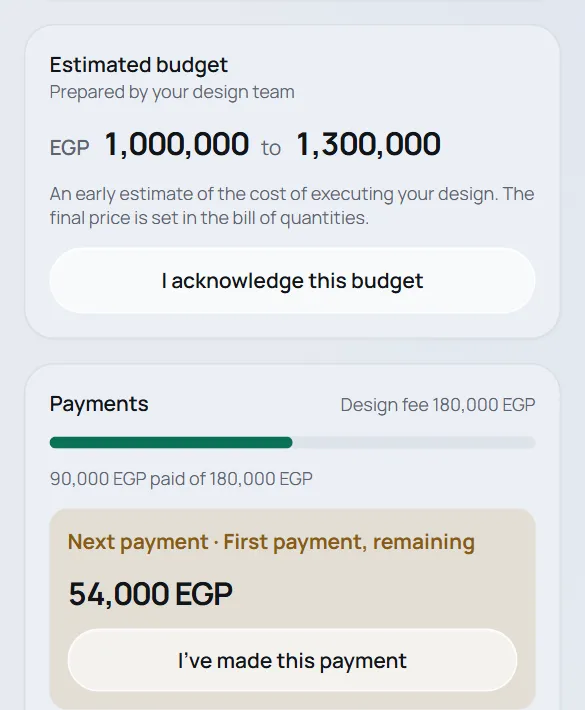
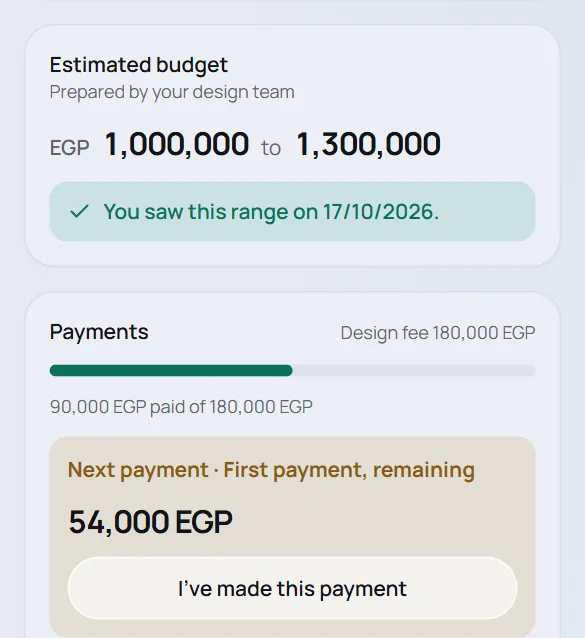
fix(builder, portal): unit names, untruncated figures, studio-recorded budget ack
- Proposal builder (and the sent-proposal view): a unit shows by its name in
  the page's language (priceBook.units, "م²" / "m²"); the code stays the
  option value. A code with no name yet shows as the code. UNITS is untouched.
- Builder number boxes show a figure without trailing zeros while not being
  edited (13200.0000 reads 13200, 0.0000 reads 0). Display only: the line keeps
  the figure as loaded or typed, focusing rewrites nothing, and nothing is
  trimmed mid-typing. Figure columns widened for 7-digit amounts.
- Client page: a budget acknowledgement the studio recorded for the client
  (the one Gate B already accepts) now counts on /d: no second "I acknowledge
  this budget" ask, and the card shows the acknowledged state. Retracting it, or
  re-issuing the band, asks again. Needs `npm run apply-rls` on deploy
  (functions/40-delivery-read.sql).
- Landing: cost and bilingual screens re-captured.

Changed region(s): [[0.0615, 0.0596, 0.9231, 0.4467], [0.0615, 0.5063, 0.9231, 0.953], [0.5846, 0.5063, 0.9231, 0.5956]]

diff --git a/apps/web/tests/actions/delivery-rom-studio-ack.dbtest.ts b/apps/web/tests/actions/delivery-rom-studio-ack.dbtest.ts
@@ -1,0 +1,73 @@
+import { afterAll, describe, expect, it } from 'vitest';
+import { recordEventCorrectionCore } from '@/lib/engagements/corrections';
+import { setEngagementRomCore } from '@/lib/engagements/rom';
+import { recordRomAcknowledgementCore } from '@/lib/engagements/rom-acknowledgement';
+import { issueRomCore } from '@/lib/engagements/rom-issue';
+import { deliveryOrNull } from './delivery-read';
+import { closeFixture, teardown } from './fixture';
+import { seedRoundBDelivery, type RoundBDelivery } from './round-b-fixture';
+
+// The budget acknowledgement the STUDIO records for the client (a call, a
+// WhatsApp) is consent on file: Gate B accepts it, so the client page must not
+// ask the client to acknowledge the same band again. Retracting it asks again.
+
+const orgIds: string[] = [];
+afterAll(async () => {
+  await teardown(orgIds);
+  await closeFixture();
+});
+
+async function issuedBand(suffix: string): Promise<RoundBDelivery> {
+  const delivery = await seedRoundBDelivery(orgIds, suffix);
+  const { ctx, engagementId } = delivery;
+  expect((await setEngagementRomCore(ctx, { engagementId, romLow: '1000000', romHigh: '1300000' })).ok).toBe(true);
+  expect((await issueRomCore(ctx, { engagementId })).ok).toBe(true);
+  return delivery;
+}
+
+describe('a budget acknowledgement the studio recorded for the client', () => {
+  it('is the acknowledgement on the client page: no button, the day on file', async () => {
+    const delivery = await issuedBand('rom-studio-ack');
+    expect((await deliveryOrNull(delivery.token))!.clientActions).toContain('acknowledge_rom');
+
+    const recorded = await recordRomAcknowledgementCore(delivery.ctx, {
+      engagementId: delivery.engagementId,
+      evidence: 'WhatsApp',
+    });
+    expect(recorded.ok).toBe(true);
+
+    const page = (await deliveryOrNull(delivery.token))!;
+    expect(page.clientActions).not.toContain('acknowledge_rom');
+    expect(page.romAcknowledgedAt).toEqual(expect.any(String));
+  });
+
+  it('asks the client again once the studio retracts it', async () => {
+    const delivery = await issuedBand('rom-studio-retract');
+    const recorded = await recordRomAcknowledgementCore(delivery.ctx, {
+      engagementId: delivery.engagementId,
+      evidence: 'Phone call',
+    });
+    const retracted = await recordEventCorrectionCore(delivery.ctx, {
+      engagementId: delivery.engagementId,
+      eventId: (recorded as { data?: string }).data!,
+      reason: 'Recorded on the wrong delivery',
+    });
+    expect(retracted.ok).toBe(true);
+
+    const page = (await deliveryOrNull(delivery.token))!;
+    expect(page.clientActions).toContain('acknowledge_rom');
+    expect(page.romAcknowledgedAt).toBeNull();
+  });
+
+  it('answers only the band it acknowledged: a re-issued band is asked again', async () => {
+    const delivery = await issuedBand('rom-studio-reissue');
+    const { ctx, engagementId } = delivery;
+    await recordRomAcknowledgementCore(ctx, { engagementId, evidence: 'WhatsApp' });
+    await setEngagementRomCore(ctx, { engagementId, romLow: '1100000', romHigh: '1400000' });
+    await issueRomCore(ctx, { engagementId });
+
+    const page = (await deliveryOrNull(delivery.token))!;
+    expect(page.clientActions).toContain('acknowledge_rom');
+    expect(page.romAcknowledgedAt).toBeNull();
+  });
+});

diff --git a/apps/web/src/app/[locale]/(app)/proposals/[id]/builder-line-row.test.tsx b/apps/web/src/app/[locale]/(app)/proposals/[id]/builder-line-row.test.tsx
@@ -1,0 +1,80 @@
+// A builder line as the studio sees it: the unit by its name in the page's
+// language (the code stays the value), and stored scale-4 figures without the
+// trailing zeros that narrow boxes used to cut off.
+import { fireEvent } from '@testing-library/react';
+import { describe, expect, it, vi } from 'vitest';
+import { messageAt, renderWithIntl, type TestLocale } from '@/test/render-with-intl';
+import type { LineState } from './builder-model';
+import { BuilderLineRow } from './builder-line-row';
+import { useUnitLabel } from './use-unit-label';
+import type { DraftCellError } from './use-draft-field-errors';
+
+const STORED_LINE: LineState = {
+  key: 'line-1',
+  id: 'l-1',
+  costItemId: null,
+  descriptionEn: 'Wardrobes',
+  descriptionAr: '',
+  qty: '18.0000',
+  unit: 'linear_meter',
+  unitCost: '9500.0000',
+  unitPrice: '13200.5000',
+  discountPct: '0.0000',
+};
+
+const NO_REFUSAL: DraftCellError = { message: undefined, clear: () => undefined };
+
+function renderLine(locale: TestLocale, line: LineState = STORED_LINE) {
+  const patchLine = vi.fn();
+  renderWithIntl(
+    <table>
+      <tbody>
+        <BuilderLineRow
+          line={line}
+          sectionIndex={0}
+          lineIndex={0}
+          seeMargin
+          patchLine={patchLine}
+          removeLine={vi.fn()}
+          cellOf={() => NO_REFUSAL}
+        />
+      </tbody>
+    </table>,
+    { locale },
+  );
+  const box = (cell: string) => document.querySelector<HTMLInputElement>(`[data-draft-input="${cell}"]`)!;
+  return { patchLine, box };
+}
+
+describe.each<TestLocale>(['ar-EG', 'en'])('a builder line (%s)', (locale) => {
+  it('names the unit in the page language, never by its code', () => {
+    renderLine(locale);
+    const unit = document.getElementById('line-line-1-unit')!;
+    expect(unit.textContent).toBe(messageAt(locale, 'priceBook.units.linear_meter'));
+    expect(unit.textContent).not.toContain('linear_meter');
+  });
+
+  it('shows stored figures without trailing zeros, and leaves the line as stored', () => {
+    const { box, patchLine } = renderLine(locale);
+    expect(box('qty').value).toBe('18');
+    expect(box('unitCost').value).toBe('9500');
+    expect(box('unitPrice').value).toBe('13200.5');
+    expect(box('discountPct').value).toBe('0');
+
+    fireEvent.focus(box('unitPrice'));
+    fireEvent.blur(box('unitPrice'));
+    expect(box('unitPrice').value).toBe('13200.5');
+    expect(patchLine).not.toHaveBeenCalled();
+  });
+});
+
+function UnitName({ unit }: { unit: string }) {
+  return <span data-testid="unit">{useUnitLabel()(unit)}</span>;
+}
+
+describe('a unit with no name yet in the catalogue', () => {
+  it('shows its code rather than breaking the page', () => {
+    renderWithIntl(<UnitName unit="kg" />, { locale: 'ar-EG' });
+    expect(document.querySelector('[data-testid="unit"]')!.textContent).toBe('kg');
+  });
+});

diff --git a/apps/web/src/app/[locale]/(app)/proposals/[id]/figure-input.tsx b/apps/web/src/app/[locale]/(app)/proposals/[id]/figure-input.tsx
@@ -1,8 +1,9 @@
 'use client';
 
-import type { ComponentProps } from 'react';
+import { useState, type ComponentProps } from 'react';
 import { Input } from '@/components/ui/input';
 import { figureOf } from './builder-model';
+import { compactFigure } from './figure-display';
 
 /**
  * A builder number box. It takes what the studio types (Arabic-Indic digits,
@@ -10,23 +11,42 @@ import { figureOf } from './builder-model';
  * be saved, in Latin digits (`figureOf`), so the box never shows a number
  * different from the one the preview and the save use. Anything it cannot read
  * ("1,5", letters) is left as typed for the save to point at.
+ *
+ * A figure it is not editing shows without trailing zeros ("13200.0000" reads
+ * "13200", ./figure-display.ts). Focusing the box keeps that text, and only what
+ * the studio then types reaches the line: the stored figure is never rewritten
+ * by looking at it, and nothing typed is trimmed while it is being typed.
  */
 export function FigureInput({
   value,
   onValueChange,
+  onFocus,
   ...props
 }: Omit<ComponentProps<typeof Input>, 'value' | 'onChange' | 'onBlur'> & {
   value: string;
   onValueChange: (value: string) => void;
 }) {
+  // What the box shows while focused, and the line figure it was shown for: a
+  // figure that changed from elsewhere meanwhile (a price-book pick) wins.
+  const [editing, setEditing] = useState<{ text: string; forValue: string } | null>(null);
+  const shown = editing && editing.forValue === value ? editing.text : compactFigure(value);
+
   return (
     <Input
       {...props}
       dir="ltr"
       inputMode="decimal"
-      value={value}
-      onChange={(event) => onValueChange(event.target.value)}
+      value={shown}
+      onFocus={(event) => {
+        setEditing({ text: compactFigure(value), forValue: value });
+        onFocus?.(event);
+      }}
+      onChange={(event) => {
+        setEditing({ text: event.target.value, forValue: event.target.value });
+        onValueChange(event.target.value);
+      }}
       onBlur={() => {
+        setEditing(null);
         const figure = figureOf(value);
         if (figure !== value) onValueChange(figure);
       }}

diff --git a/apps/web/src/app/[locale]/(app)/proposals/[id]/figure-input.test.tsx b/apps/web/src/app/[locale]/(app)/proposals/[id]/figure-input.test.tsx
@@ -32,3 +32,50 @@ describe('FigureInput: on blur the box shows the Latin-digit figure that is save
     expect(box.value).toBe('1,5');
   });
 });
+
+function StoredBox({ initial, onChange }: { initial: string; onChange: (value: string) => void }) {
+  const [value, setValue] = useState(initial);
+  return (
+    <FigureInput
+      aria-label="price"
+      value={value}
+      onValueChange={(next) => {
+        onChange(next);
+        setValue(next);
+      }}
+    />
+  );
+}
+
+describe('FigureInput: a stored scale-4 figure shows without trailing zeros', () => {
+  it('reads 13200 for 13200.0000, focused or not, and looking at it changes nothing', () => {
+    const changes: string[] = [];
+    render(<StoredBox initial="13200.0000" onChange={(value) => changes.push(value)} />);
+    const box = screen.getByLabelText('price') as HTMLInputElement;
+    expect(box.value).toBe('13200');
+    fireEvent.focus(box);
+    expect(box.value).toBe('13200');
+    fireEvent.blur(box);
+    expect(box.value).toBe('13200');
+    expect(changes).toEqual([]);
+  });
+
+  it('never trims a figure while it is being typed (12.0 on the way to 12.05)', () => {
+    const changes: string[] = [];
+    render(<StoredBox initial="0.0000" onChange={(value) => changes.push(value)} />);
+    const box = screen.getByLabelText('price') as HTMLInputElement;
+    fireEvent.focus(box);
+    fireEvent.change(box, { target: { value: '12.0' } });
+    expect(box.value).toBe('12.0');
+    fireEvent.change(box, { target: { value: '12.05' } });
+    expect(box.value).toBe('12.05');
+    expect(changes).toEqual(['12.0', '12.05']);
+    fireEvent.blur(box);
+    expect(box.value).toBe('12.05');
+  });
+
+  it('keeps all four decimals it was given', () => {
+    render(<StoredBox initial="0.1234" onChange={() => undefined} />);
+    expect((screen.getByLabelText('price') as HTMLInputElement).value).toBe('0.1234');
+  });
+});

diff --git a/apps/web/src/app/[locale]/(app)/proposals/[id]/view/view-client.tsx b/apps/web/src/app/[locale]/(app)/proposals/[id]/view/view-client.tsx
@@ -6,9 +6,11 @@ import { Button } from '@/components/ui/button';
 import { Card, CardContent } from '@/components/ui/card';
 import { Link } from '@/i18n/routing';
 import { formatMoney } from '@/lib/format/money';
+import { formatQuantity } from '@/lib/format/number';
 import { pickLocale } from '@/lib/i18n/pick-locale';
 import type { ProposalDetail } from '@/lib/proposals/queries';
 import { PreviewModal } from '../preview-modal';
+import { useUnitLabel } from '../use-unit-label';
 import { useProposalViewActions } from './use-proposal-view-actions';
 
 export function ProposalView({
@@ -30,6 +32,7 @@ export function ProposalView({
   const tc = useTranslations('contracts');
   const locale = useLocale();
   const { pending, onGenerateContract, onSupersede, onExpire } = useProposalViewActions(detail.id);
+  const unitLabel = useUnitLabel();
   const money = (v: string) => formatMoney(v, locale);
   const loc = (ar: string | null, en: string | null) =>
     pickLocale({ nameAr: ar, nameEn: en }, 'name', locale).value;
@@ -96,7 +99,7 @@ export function ProposalView({
                   <tr key={l.id} className="border-b last:border-0">
                     <td className="px-4 py-2">{loc(l.descriptionAr, l.descriptionEn)}</td>
                     <td className="px-4 py-2 text-muted-foreground" dir="ltr">
-                      {l.qty} {l.unit}
+                      {formatQuantity(l.qty, locale)} {unitLabel(l.unit)}
                     </td>
                     <td className="px-4 py-2 text-end" dir="ltr">{money(l.unitPrice)}</td>
                     <td className="px-4 py-2 text-end" dir="ltr">{money(l.lineTotal)}</td>

diff --git a/apps/web/src/app/[locale]/(app)/proposals/[id]/builder-line-row.tsx b/apps/web/src/app/[locale]/(app)/proposals/[id]/builder-line-row.tsx
@@ -12,12 +12,15 @@ import { CellError, cellA11y } from './draft-cell';
 import type { LineCell } from './draft-field-errors';
 import type { LineFigure } from './draft-completeness';
 import type { DraftCellError } from './use-draft-field-errors';
+import { useUnitLabel } from './use-unit-label';
 
+// Wide enough for a 7-digit amount with a decimal or two: a box shows its figure
+// without trailing zeros (figure-input.tsx), so these hold what studios price.
 const FIGURE_WIDTH: Record<LineFigure, string> = {
-  qty: 'w-16',
-  unitCost: 'w-20',
-  unitPrice: 'w-20',
-  discountPct: 'w-14',
+  qty: 'w-20',
+  unitCost: 'w-24',
+  unitPrice: 'w-24',
+  discountPct: 'w-16',
 };
 
 /**
@@ -43,6 +46,7 @@ export function BuilderLineRow({
 }) {
   const t = useTranslations('proposals');
   const locale = useLocale();
+  const unitLabel = useUnitLabel();
   const si = sectionIndex;
   const li = lineIndex;
   const lt = previewLine(line);
@@ -86,7 +90,7 @@ export function BuilderLineRow({
           className="h-9 w-auto min-w-16"
           value={line.unit}
           onValueChange={(v) => edit('unit', { unit: v })}
-          options={UNITS.map((u) => ({ value: u, label: u }))}
+          options={UNITS.map((u) => ({ value: u, label: unitLabel(u) }))}
           {...cellA11y(idOf('unit'), cellOf('unit'))}
         />
         <CellError id={idOf('unit')} error={cellOf('unit')} />

diff --git a/apps/web/src/app/[locale]/(app)/proposals/[id]/figure-display.test.ts b/apps/web/src/app/[locale]/(app)/proposals/[id]/figure-display.test.ts
@@ -1,0 +1,28 @@
+import { describe, expect, it } from 'vitest';
+import { compactFigure } from './figure-display';
+
+describe('compactFigure: a stored figure without its trailing zeros', () => {
+  it.each([
+    ['13200.0000', '13200'],
+    ['0.0000', '0'],
+    ['14.0000', '14'],
+    ['12.5000', '12.5'],
+    ['0.1250', '0.125'],
+    ['1250000.0500', '1250000.05'],
+    ['100', '100'],
+    ['10.0001', '10.0001'],
+  ])('%s shows as %s', (stored, shown) => {
+    expect(compactFigure(stored)).toBe(shown);
+    // Display only: never a different number.
+    expect(Number(compactFigure(stored))).toBe(Number(stored));
+  });
+
+  it.each(['1,5', '', 'abc', '7.', '1,000.00', '١٢٫٥٠'])('leaves %j as it is', (typed) => {
+    expect(compactFigure(typed)).toBe(typed);
+  });
+
+  it('keeps zeros inside the integer part', () => {
+    expect(compactFigure('100.0000')).toBe('100');
+    expect(compactFigure('1000.0')).toBe('1000');
+  });
+});

diff --git a/apps/web/src/app/[locale]/(app)/proposals/[id]/figure-display.ts b/apps/web/src/app/[locale]/(app)/proposals/[id]/figure-display.ts
@@ -1,0 +1,17 @@
+// How a builder number box SHOWS a figure it is not editing. PURE and
+// CLIENT-SAFE.
+//
+// The server stores every figure at scale 4, so a draft loads "13200.0000",
+// "0.0000" and "14.0000": a narrow box cut them off mid-digit. Trailing
+// fractional zeros carry no value, so the box shows "13200", "0" and "14". It is
+// display only: the line keeps the figure exactly as loaded or typed, and the
+// save, the preview and the 4-decimal rule read that, never this. Anything that
+// is not a plain decimal ("1,5", letters) is shown as it is, for the save to
+// point at.
+const PLAIN_DECIMAL = /^-?\d+\.\d+$/;
+
+/** `figure` without its trailing fractional zeros (and a dot left bare). */
+export function compactFigure(figure: string): string {
+  if (!PLAIN_DECIMAL.test(figure)) return figure;
+  return figure.replace(/0+$/, '').replace(/\.$/, '');
+}

diff --git a/apps/web/src/components/landing/feature-screens.ts b/apps/web/src/components/landing/feature-screens.ts
@@ -17,7 +17,7 @@ const SIZES: Record<ScreenKind, Record<ScreenLanguage, ScreenSize>> = {
   flow: { ar: { width: 1169, height: 808 }, en: { width: 1169, height: 787 } },
   cost: { ar: { width: 1180, height: 1305 }, en: { width: 1180, height: 1300 } },
   proposals: { ar: { width: 976, height: 1032 }, en: { width: 976, height: 1062 } },
-  bilingual: { ar: { width: 585, height: 722 }, en: { width: 585, height: 710 } },
+  bilingual: { ar: { width: 585, height: 644 }, en: { width: 585, height: 638 } },
 };
 
 export interface ScreenImage extends ScreenSize {

diff --git a/apps/web/src/app/[locale]/(app)/proposals/[id]/use-unit-label.ts b/apps/web/src/app/[locale]/(app)/proposals/[id]/use-unit-label.ts
@@ -1,0 +1,12 @@
+import { useTranslations } from 'next-intl';
+
+/**
+ * A unit code's name in the page's language, from the price book's unit names
+ * (`priceBook.units`): "م²" for `sqm` in Arabic, "m²" in English. The code stays
+ * the stored value; this only names it. A code with no name yet in the
+ * catalogue shows as the code itself rather than breaking the page.
+ */
+export function useUnitLabel(): (unit: string) => string {
+  const t = useTranslations('priceBook.units');
+  return (unit) => (t.has(unit) ? t(unit) : unit);
+}
